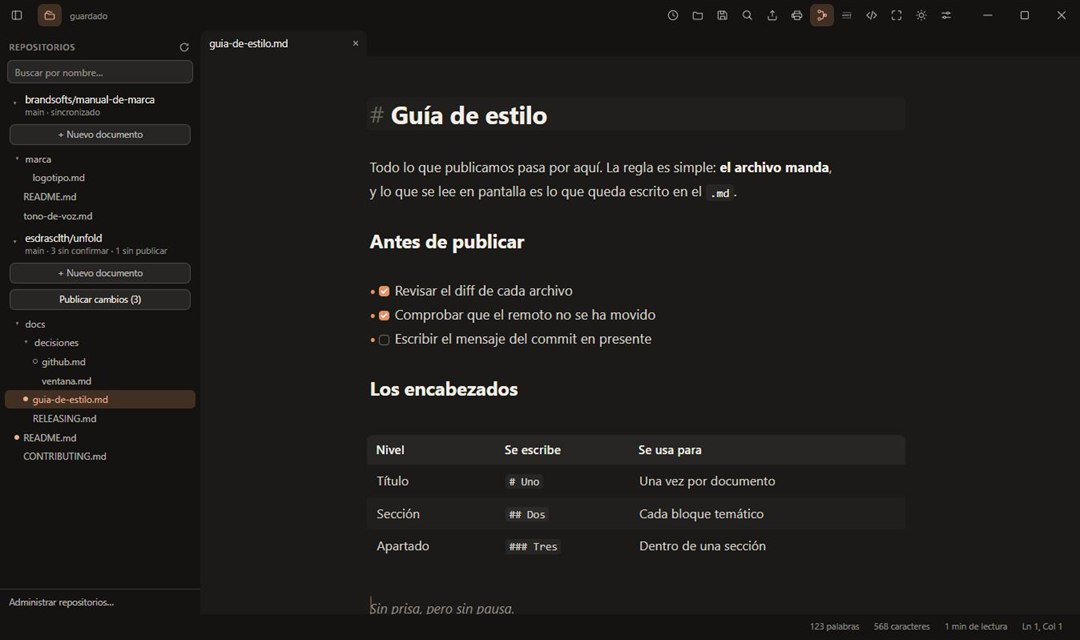
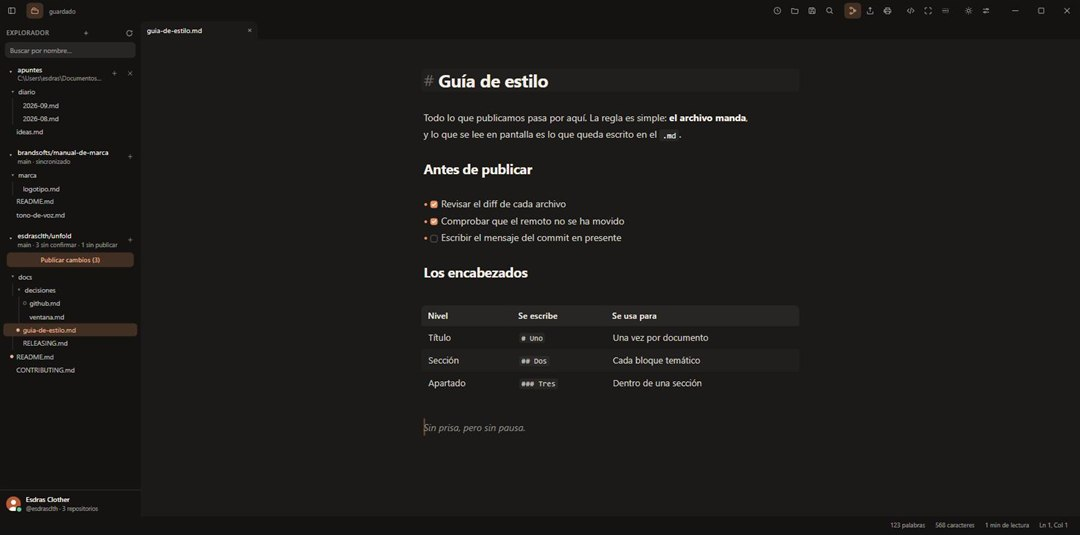
docs: la documentación alcanza a la aplicación
Hoy entraron tres funciones y ninguna estaba escrita en ninguna parte: las
carpetas locales, buscar en todos los documentos y la instancia única. Y las
tablas de atajos habían dejado de cuadrar —faltaban `Ctrl+Shift+L` y
`Ctrl+Shift+U` en la web, y además `Ctrl+Shift+B` y `Ctrl+Shift+H` en la
bienvenida—. Es la misma clase de fallo que los 7,7 MB: algo público que dejó
de ser cierto sin que nadie lo tocara.

El README gana una sección propia para el explorador, que ya no es de GitHub
sino de dos clases de raíz que se navegan igual. En la web, la sección de
GitHub deja de presentar el árbol como suyo.

Las capturas también se habían quedado atrás: enseñaban el panel de esta
mañana, con «REPOSITORIOS» por cabecera, botones con caja, una fila entera por
«Nuevo documento» y sin el pie de la cuenta. Se rehacen las cuatro y se añade
una de la búsqueda, que era la única función nueva sin imagen.

El arnés de capturas se había roto con el cambio del almacén: sembraba la
sesión en `localStorage`, que ya no se lee. Ahora responde a `store_read`.

Claude-Session: https://claude.ai/code/session_01TrVDQ3DvsUnzyPXwJS8LRH

diff --git a/web/index.html b/web/index.html
@@ -9,7 +9,7 @@
 <meta name="robots" content="index, follow, max-image-preview:large, max-snippet:-1">
 <link rel="canonical" href="https://unfold.brandsofts.com/">
 
-<!-- Open Graph. La imagen es la captura real de la aplicación: 1080x640, así
+<!-- Open Graph. La imagen es la captura real de la aplicación: 1080x535, así
      que en tarjetas anchas se recorta un poco arriba y abajo. Se declaran sus
      medidas para que quien la lea no tenga que descargarla para saberlas. -->
 <meta property="og:type" content="website">
@@ -21,7 +21,7 @@
 <meta property="og:image" content="https://unfold.brandsofts.com/captura-claro.jpg">
 <meta property="og:image:type" content="image/jpeg">
 <meta property="og:image:width" content="1080">
-<meta property="og:image:height" content="640">
+<meta property="og:image:height" content="535">
 <meta property="og:image:alt" content="Unfold con el explorador de repositorios de GitHub a la izquierda y un documento Markdown abierto con una tabla ya renderizada.">
 
 <meta name="twitter:card" content="summary_large_image">
@@ -365,13 +365,13 @@
     </div>
   </div>
   <p class="bajada">
-    Un documento de un repositorio conectado, con el explorador a la izquierda y
-    el estado de cada archivo al lado. Los dos temas y doce colores de barra
-    vienen incluidos; pruébalos aquí.
+    El explorador con una carpeta del disco y dos repositorios conectados, y un
+    documento abierto al lado. Los dos temas y doce colores de barra vienen
+    incluidos; pruébalos aquí.
   </p>
   <figure class="captura">
-    <img id="captura" src="captura-claro.jpg" width="1080" height="640"
-         alt="Unfold con el explorador de repositorios de GitHub a la izquierda, un documento abierto con encabezados, tareas y una tabla renderizada.">
+    <img id="captura" src="captura-claro.jpg" width="1080" height="535"
+         alt="Unfold con el explorador a la izquierda —una carpeta del disco y dos repositorios de GitHub— y un documento abierto con encabezados, tareas y una tabla renderizada.">
   </figure>
 </section>
 
@@ -379,7 +379,7 @@
   <p class="etiqueta">Todo lo que trae</p>
   <h2 class="titulo"><span class="mk">## </span>Qué sabe hacer</h2>
   <p class="bajada bajada-ancha">
-    Catorce cosas, agrupadas por el momento en el que las necesitas.
+    Diecisiete cosas, agrupadas por el momento en el que las necesitas.
   </p>
 
   <div class="grupos">
@@ -417,6 +417,14 @@
           <p>Sacado del árbol sintáctico, plegable y ajustable. Una almohadilla dentro de un bloque de código no aparece.</p>
         </li>
         <li>
+          <h4>Explorador de documentos</h4>
+          <p>Abre una carpeta del disco o conecta un repositorio, y navega su árbol con búsqueda por nombre.</p>
+        </li>
+        <li>
+          <h4>Buscar en todos</h4>
+          <p>Con <kbd>Ctrl+Shift+L</kbd>, en todas tus carpetas y repositorios a la vez. Abrir un resultado lleva a su línea.</p>
+        </li>
+        <li>
           <h4>Retoma tu sesión</h4>
           <p>Al volver a abrir, recupera pestañas, borradores, cursor y posición sin tocar tus archivos.</p>
         </li>
@@ -432,7 +440,7 @@
       <ul>
         <li>
           <h4>Repositorios de GitHub</h4>
-          <p>Conecta los que elijas y ábrelos desde un explorador con árbol de carpetas y búsqueda por nombre.</p>
+          <p>Conecta los que elijas y ábrelos desde el explorador, junto a tus carpetas del disco, con el estado de cada documento al lado.</p>
         </li>
         <li>
           <h4>Diff antes de confirmar</h4>
@@ -468,12 +476,23 @@
     </section>
   </div>
 
+  <figure class="captura captura-suelta">
+    <img src="captura-buscar.jpg" width="1080" height="535" loading="lazy"
+         alt="Buscar en todos los documentos: los resultados salen agrupados por archivo, con el número de línea y la coincidencia resaltada.">
+  </figure>
+  <p class="bajada bajada-ancha pie-figura">
+    <strong>Buscar en todos a la vez.</strong> Con <kbd>Ctrl+Shift+L</kbd>, en
+    tus carpetas y repositorios juntos. Los resultados se agrupan por archivo y
+    abrir uno lleva el cursor a su línea.
+  </p>
+
   <div class="atajos">
     <h3>Atajos esenciales</h3>
     <dl>
       <div><dt>Nuevo · Abrir · Guardar</dt><dd><kbd>Ctrl+N</kbd> <kbd>Ctrl+O</kbd> <kbd>Ctrl+S</kbd></dd></div>
       <div><dt>Negrita · Cursiva · Enlace</dt><dd><kbd>Ctrl+B</kbd> <kbd>Ctrl+I</kbd> <kbd>Ctrl+K</kbd></dd></div>
-      <div><dt>Esquema · Repositorios</dt><dd><kbd>Ctrl+Shift+O</kbd> <kbd>Ctrl+Shift+B</kbd></dd></div>
+      <div><dt>Esquema · Explorador</dt><dd><kbd>Ctrl+Shift+O</kbd> <kbd>Ctrl+Shift+B</kbd></dd></div>
+      <div><dt>Buscar en todos · Publicar</dt><dd><kbd>Ctrl+Shift+L</kbd> <kbd>Ctrl+Shift+U</kbd></dd></div>
       <div><dt>GitHub · Apariencia</dt><dd><kbd>Ctrl+Shift+H</kbd> <kbd>Ctrl+,</kbd></dd></div>
       <div><dt>Enfoque · Máquina de escribir</dt><dd><kbd>Ctrl+Shift+F</kbd> <kbd>Ctrl+Shift+T</kbd></dd></div>
       <div><dt>Código fuente · Exportar</dt><dd><kbd>Ctrl+Shift+M</kbd> <kbd>Ctrl+Shift+E</kbd></dd></div>
@@ -518,7 +537,8 @@
       <div>
         <h3>Escribe y publica</h3>
         <p>
-          Un explorador con árbol de carpetas y búsqueda por nombre. Marcas qué
+          Los repositorios se navegan en el mismo explorador que tus carpetas,
+          con el estado de cada documento al lado. Marcas qué
           archivos entran, revisas su diff, escribes el mensaje y Unfold
           confirma, sincroniza y publica.
         </p>
@@ -536,7 +556,7 @@
       </figcaption>
     </figure>
     <figure>
-      <img src="captura-publicar.jpg" width="1080" height="640" loading="lazy"
+      <img src="captura-publicar.jpg" width="1080" height="535" loading="lazy"
            alt="Vista de publicar cambios en Unfold: tres archivos con casilla y estado, el diff de uno de ellos desplegado con las líneas añadidas y quitadas, el mensaje del commit y la identidad con la que se va a firmar.">
       <figcaption>
         <strong>Ves el diff antes de subirlo.</strong> Cada archivo se despliega

diff --git a/scripts/capturas.html b/scripts/capturas.html
@@ -96,6 +96,14 @@ y lo que se lee en pantalla es lo que queda escrito en el \`.md\`.
       + '<path d="M16 96c4-19 16-28 32-28s28 9 32 28z" fill="#fdfcfa"/></svg>',
     );
 
+    const SESION = JSON.stringify({
+      version: 1, active: 0,
+      tabs: [{
+        name: "guia-de-estilo.md", path: rutaDe(41, "docs/guia-de-estilo.md"),
+        content: DOCUMENTO, dirty: false, anchor: 0, head: 0, scrollTop: 0, state: {},
+      }],
+    });
+
     const RESPUESTAS = {
       startup_file: () => null,
       github_auth_status: () => ({
@@ -162,6 +170,9 @@ y lo que se lee en pantalla es lo que queda escrito en el \`.md\`.
         additions: 2, deletions: 1, shownLines: 6, totalLines: 6,
         fingerprint: "a:blob:2",
       }),
+      store_read: ({ name }) => (name === "session" ? SESION : null),
+      store_write: () => ({ bytes: 0 }),
+      store_clear: () => undefined,
       "plugin:fs|read_text_file": () => Array.from(new TextEncoder().encode(DOCUMENTO)),
       "plugin:fs|watch": () => 1,
       "plugin:fs|unwatch": () => undefined,
@@ -193,26 +204,14 @@ y lo que se lee en pantalla es lo que queda escrito en el \`.md\`.
     localStorage.clear();
     localStorage.setItem("unfold:repositories", "on");
     localStorage.setItem("unfold:bienvenida-vista", "0.3.0");
-    localStorage.setItem("unfold:session", JSON.stringify({
-      version: 1, active: 0,
-      tabs: [{
-        name: "guia-de-estilo.md", path: rutaDe(41, "docs/guia-de-estilo.md"),
-        content: DOCUMENTO, dirty: false, anchor: 0, head: 0, scrollTop: 0, state: {},
-      }],
-    }));
     localStorage.setItem(
       "unfold:theme",
       new URLSearchParams(location.search).get("tema") === "oscuro" ? "dark" : "light",
     );
 
-    // La aplicación guarda la sesión a los 250 ms de arrancar, y eso llega
-    // antes de que restaure: sin congelar la clave, el documento sembrado se
-    // pisa con la pestaña vacía del arranque.
-    const guardarOriginal = localStorage.setItem.bind(localStorage);
-    localStorage.setItem = (clave, valor) => {
-      if (clave === "unfold:session") return;
-      guardarOriginal(clave, valor);
-    };
+    // La sesión ya no pasa por `localStorage`: `store_write` la recibe y la
+    // descarta, así que el documento sembrado no se pisa con la pestaña vacía
+    // del arranque.
     </script>
   </head>
   <body>

diff --git a/src/welcome.ts b/src/welcome.ts
@@ -37,7 +37,8 @@ ${release.highlights.map((highlight) => `- ${highlight}`).join("\n")}
 - Marca una tarea haciendo clic en su casilla.
 - Sigue un enlace con \`Ctrl\` + clic.
 - Recorre una tabla con \`Tab\` y \`Shift+Tab\`; pulsa \`Enter\` para añadir una fila.
-- Abre el esquema con \`Ctrl+Shift+O\` y ajusta la apariencia con \`Ctrl+,\`.
+- Abre el esquema con \`Ctrl+Shift+O\` y el explorador con \`Ctrl+Shift+B\`.
+- Busca en todos tus documentos a la vez con \`Ctrl+Shift+L\`.
 - Usa \`Ctrl+F\` para buscar y reemplazar en el documento.
 
 ## Atajos esenciales
@@ -49,6 +50,8 @@ ${release.highlights.map((highlight) => `- ${highlight}`).join("\n")}
 | Cerrar · Cambiar pestaña | \`Ctrl+W\` · \`Ctrl+Tab\` |
 | Enfoque · Máquina de escribir | \`Ctrl+Shift+F\` · \`Ctrl+Shift+T\` |
 | Código fuente · Menú Markdown | \`Ctrl+Shift+M\` · clic derecho |
+| Explorador · Buscar en todos | \`Ctrl+Shift+B\` · \`Ctrl+Shift+L\` |
+| GitHub · Publicar cambios | \`Ctrl+Shift+H\` · \`Ctrl+Shift+U\` |
 | Exportar HTML · Imprimir/PDF | \`Ctrl+Shift+E\` · \`Ctrl+P\` |
 `;
 

diff --git a/web/styles.css b/web/styles.css
@@ -925,6 +925,11 @@ h2.titulo { font-size: clamp(1.55rem, 3vw, 2.15rem); letter-spacing: -0.03em; }
 
 .captura img { display: block; width: 100%; height: auto; }
 
+/* Una captura suelta dentro de una sección de texto, con su pie debajo. */
+.captura-suelta { margin-top: clamp(2.4rem, 5vw, 3.4rem); }
+.pie-figura { margin-top: 1rem; }
+.pie-figura strong { color: var(--text); }
+
 /* ── Características ────────────────────────────────────────────────────── */
 
 .caracteristicas { padding: clamp(2.8rem, 6vw, 4.5rem) 0; }

diff --git a/README.md b/README.md
@@ -79,8 +79,10 @@ Markdown disponibles y `Ctrl+Shift+M` alterna el modo Código fuente.
   pisarlo
 - **Apariencia configurable**: tipografía, tamaño, interlineado, ancho de
   columna y doce colores de barra
-- **Repositorios de GitHub**: explorador con árbol de carpetas, búsqueda por
-  nombre e indicadores de estado por documento
+- **Explorador de documentos**: abre una carpeta del disco o conecta un
+  repositorio de GitHub, y navega su árbol con búsqueda por nombre e
+  indicadores de estado por documento
+- **Buscar en todos los documentos** a la vez, no sólo en el que tienes abierto
 - **Confirmar y publicar** desde la aplicación, sincronizando antes con el
   remoto, con vista previa del diff de cada archivo
 - **La ventana te recuerda**: vuelve con el tamaño, el sitio y el estado
@@ -99,12 +101,30 @@ Markdown disponibles y `Ctrl+Shift+M` alterna el modo Código fuente.
 | Buscar y reemplazar | `Ctrl+F` |
 | Acercar · Alejar el contenido | `Ctrl++` · `Ctrl+-` |
 | Esquema · Apariencia | `Ctrl+Shift+O` · `Ctrl+,` |
-| Repositorios · Cuenta de GitHub | `Ctrl+Shift+B` · `Ctrl+Shift+H` |
+| Explorador · Cuenta de GitHub | `Ctrl+Shift+B` · `Ctrl+Shift+H` |
+| Buscar en todos los documentos | `Ctrl+Shift+L` |
+| Publicar cambios | `Ctrl+Shift+U` |
 | Exportar HTML · Imprimir o PDF | `Ctrl+Shift+E` · `Ctrl+P` |
 | Modo enfoque · Máquina de escribir | `Ctrl+Shift+F` · `Ctrl+Shift+T` |
 | Código fuente · Menú Markdown | `Ctrl+Shift+M` · clic derecho |
 | Pegar sin formato | `Ctrl+Shift+V` |
 | En tablas: celda · fila | `Tab` / `Shift+Tab` · `Enter` |
+
+## El explorador
+
+`Ctrl+Shift+B` abre el panel lateral. Dentro caben dos clases de raíz, y se
+navegan igual porque para escribir son lo mismo: **carpetas del disco**, que se
+abren con el `+` de la cabecera y se recuerdan al reiniciar, y **repositorios
+de GitHub**, que además llevan el estado de cada documento.
+
+El árbol filtra por nombre —sin distinguir mayúsculas ni tildes— y
+`Ctrl+Shift+L` busca por lo que los documentos dicen dentro, en todas las
+raíces a la vez. Los resultados salen agrupados por archivo, y abrir uno lleva
+el cursor a la línea encontrada.
+
+El recorrido de una carpeta se salta las carpetas ocultas y `node_modules`, y
+no sigue enlaces simbólicos. En un repositorio manda `.gitignore`, también al
+buscar.
 
 ## GitHub integrado
 
@@ -196,6 +216,7 @@ Lo que está pendiente y sería bienvenido:
 - Ramas y pull requests desde la aplicación
 - Notas al pie y enlaces automáticos
 - Tablas dentro de citas o listas
+- Reemplazar en varios documentos a la vez
 - Compilaciones para macOS y Linux
 
 ## Licencia
